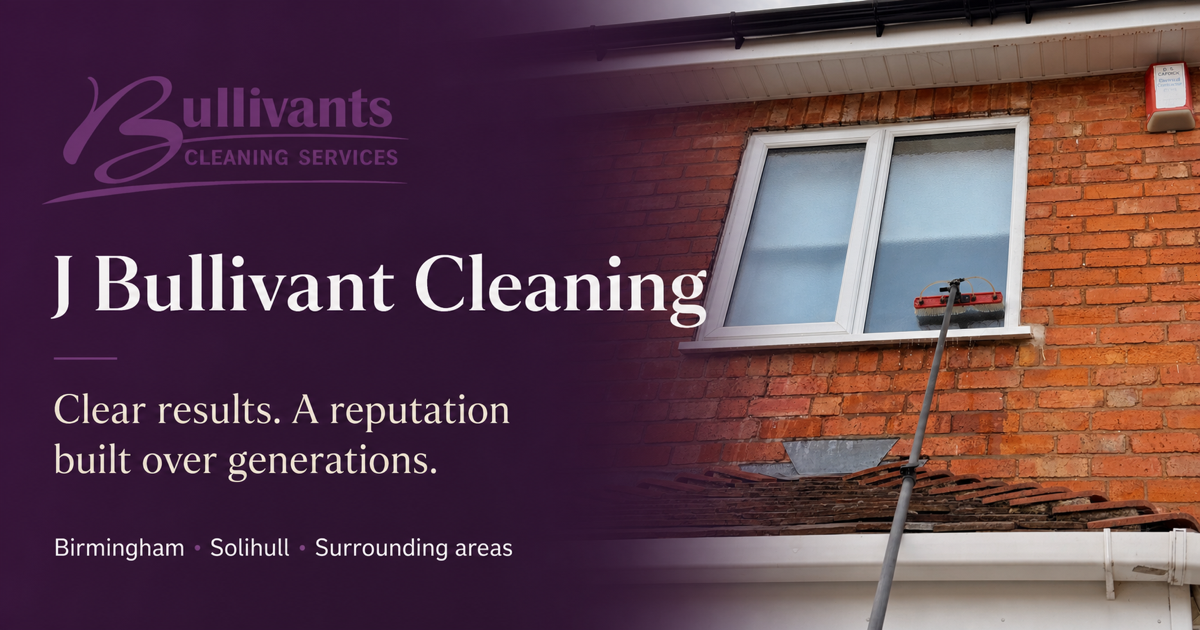
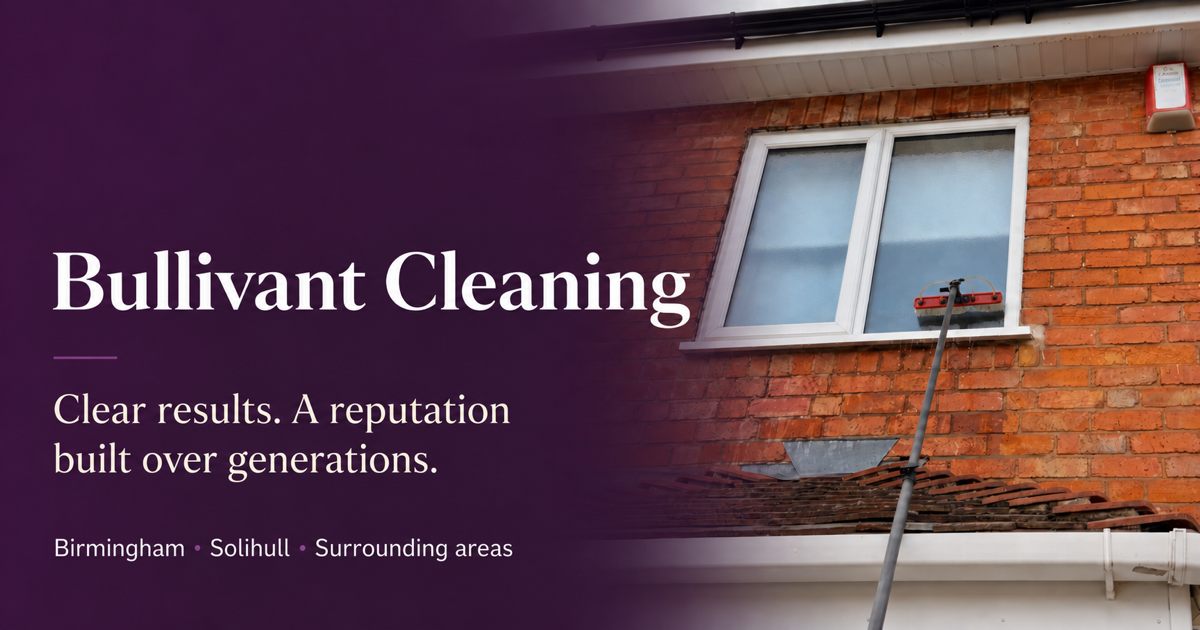
Update Bullivant Cleaning brand and local SEO

diff --git a/app/page.tsx b/app/page.tsx
@@ -8,8 +8,8 @@ export default function HomePage() {
         <div className="hero-shade" />
         <div className="hero-content">
           <p className="eyebrow light">Established family-run cleaning specialists</p>
-          <h1>Clear results.<br />A reputation built<br />over generations.</h1>
-          <p className="hero-copy">Professional residential and commercial window cleaning across Birmingham, Solihull and surrounding areas.</p>
+          <h1>Professional window cleaning<br />in Birmingham.</h1>
+          <p className="hero-copy">Bullivant Cleaning provides residential and commercial window cleaning, plus gutter, soffit and internal window cleaning, across Birmingham and surrounding areas.</p>
           <div className="hero-actions">
             <a className="button" href="/quote">Get a Free Quote <span aria-hidden="true">→</span></a>
             <a className="text-link light" href="tel:07855399330">Call 07855 399330</a>
@@ -27,13 +27,13 @@ export default function HomePage() {
 
       <section className="intro-section editorial-grid reveal">
         <div>
-          <p className="eyebrow">Birmingham’s trusted cleaning specialists</p>
+          <p className="eyebrow">Local window cleaners in Birmingham</p>
           <h2>Clean windows.<br />Clear standards.</h2>
         </div>
         <div className="intro-body">
-          <p className="lead">J Bullivant Cleaning combines decades of practical expertise with modern equipment and a personal, reliable service.</p>
-          <p>From regular residential rounds to commercial properties, every clean is approached with care. Frames and sills are included as standard, leaving the whole window looking its best.</p>
-          <a className="arrow-link" href="/about">Meet J Bullivant Cleaning <span>→</span></a>
+          <p className="lead">Bullivant Cleaning combines decades of practical expertise with modern equipment and a personal, reliable service.</p>
+          <p>From regular residential window cleaning to commercial properties, every clean is approached with care. Frames and sills are included as standard, leaving the whole window looking its best.</p>
+          <a className="arrow-link" href="/about">Meet Bullivant Cleaning <span>→</span></a>
         </div>
       </section>
 
@@ -44,7 +44,7 @@ export default function HomePage() {
           <div className="service-feature-copy"><span>01 / Residential</span><h2>Regular care for a home that feels brighter.</h2><b>Explore residential services →</b></div>
         </a>
         <a className="service-feature commercial reveal" href="/commercial-cleaning">
-          <img src="/images/window-cleaning-van-equipment.jpg" alt="J Bullivant professional cleaning van and equipment" loading="lazy" />
+          <img src="/images/window-cleaning-van-equipment.jpg" alt="Commercial window cleaning equipment used by Bullivant Cleaning" loading="lazy" />
           <div className="image-overlay" />
           <div className="service-feature-copy"><span>02 / Commercial</span><h2>Reliable standards for every working environment.</h2><b>Explore commercial services →</b></div>
         </a>
@@ -75,7 +75,7 @@ export default function HomePage() {
 
       <section className="why-section editorial-grid reveal">
         <div>
-          <p className="eyebrow">Why J Bullivant</p>
+          <p className="eyebrow">Why Bullivant Cleaning</p>
           <h2>Dependable by habit. Detailed by nature.</h2>
         </div>
         <div className="why-list">

diff --git a/app/globals.css b/app/globals.css
@@ -75,6 +75,7 @@ p { color: var(--muted); font-size: 16px; line-height: 1.75; }
 .arrow-link { align-items: center; border-bottom: 1px solid var(--line); display: flex; font-size: 13px; font-weight: 800; justify-content: space-between; margin-top: 35px; max-width: 300px; padding: 0 0 13px; transition: .2s ease; }
 .arrow-link:hover { border-color: var(--plum); color: var(--plum); max-width: 315px; }
 .arrow-link.light { border-color: rgba(255, 255, 255, .3); color: white; }
+.inline-link { color: var(--plum); font-weight: 700; text-decoration: underline; text-decoration-thickness: 1px; text-underline-offset: 3px; }
 .text-link { border-bottom: 1px solid var(--line); font-size: 13px; font-weight: 800; padding: 10px 0; }
 .text-link.light { border-color: rgba(255, 255, 255, .45); color: white; }
 .editorial-grid { display: grid; gap: clamp(45px, 9vw, 150px); grid-template-columns: minmax(0, .95fr) minmax(0, 1.05fr); }
@@ -140,9 +141,9 @@ p { color: var(--muted); font-size: 16px; line-height: 1.75; }
 .why-list h3 { font-family: var(--serif); font-size: 24px; font-weight: 400; margin: 0 0 10px; }
 .why-list p { font-size: 14px; margin-bottom: 0; }
 
-.history-section { min-height: 850px; overflow: hidden; position: relative; }
+.history-section { display: grid; min-height: 850px; overflow: clip; position: relative; }
 .history-section > img { height: 100%; inset: 0; object-fit: cover; position: absolute; width: 100%; }
-.history-card { background: rgba(78, 25, 80, .95); color: white; margin-left: clamp(24px, 8vw, 125px); max-width: 670px; padding: clamp(48px, 7vw, 94px); position: absolute; top: 50%; transform: translateY(-50%); }
+.history-card { align-self: center; background: rgba(78, 25, 80, .95); color: white; margin: clamp(72px, 9vw, 125px) 24px clamp(72px, 9vw, 125px) clamp(24px, 8vw, 125px); max-width: 670px; padding: clamp(48px, 7vw, 94px); position: relative; z-index: 1; }
 .history-card h2 { font-size: clamp(48px, 5vw, 74px); }
 .history-card p:not(.eyebrow) { color: rgba(255,255,255,.72); }
 
@@ -186,7 +187,7 @@ p { color: var(--muted); font-size: 16px; line-height: 1.75; }
 .feature-row article:first-child { padding-left: 0; }
 .feature-row article:last-child { border: 0; }
 .feature-row article > span { color: var(--plum); font-size: 10px; font-weight: 800; }
-.feature-row h3 { font-family: var(--serif); font-size: 26px; font-weight: 400; margin: 20px 0 10px; }
+.feature-row h2 { font-family: var(--serif); font-size: 26px; font-weight: 400; letter-spacing: normal; line-height: 1.2; margin: 20px 0 10px; }
 .feature-row p { font-size: 13px; margin: 0; }
 .service-detail { padding: clamp(100px, 12vw, 180px) clamp(24px, 8vw, 125px); }
 .service-detail h2 { margin: 0; }
@@ -385,8 +386,8 @@ input:focus, select:focus, textarea:focus { border-color: var(--plum); outline: 
   .before-after-heading h2 { text-align: left; }
   .before-after-grid { grid-template-columns: 1fr; }
   .before-after-grid img { height: 520px; }
-  .history-section { min-height: 780px; }
-  .history-card { left: 0; margin: 0 18px; padding: 46px 28px; right: 0; }
+  .history-section { min-height: auto; }
+  .history-card { margin: 72px 18px; padding: 46px 28px; }
   .area-tags span { padding: 9px 12px; }
   .commercial-band > img { min-height: 500px; }
   .quote-band { padding-bottom: 80px; padding-top: 80px; }

diff --git a/app/layout.tsx b/app/layout.tsx
@@ -1,32 +1,30 @@
 import type { Metadata } from "next";
-import { headers } from "next/headers";
 import "./globals.css";
 import { Footer, Header, MobileActions } from "./components/SiteChrome";
+import { BUSINESS_NAME, SITE_URL, createPageMetadata } from "./lib/seo";
 
-export async function generateMetadata(): Promise<Metadata> {
-  const requestHeaders = await headers();
-  const host = requestHeaders.get("host") || "j-bullivant-cleaning.sites.openai.com";
-  const protocol = requestHeaders.get("x-forwarded-proto") || "https";
-  const base = new URL(`${protocol}://${host}`);
-  const title = "J Bullivant Cleaning | Window Cleaning Birmingham & Solihull";
-  const description = "Family-run residential and commercial window cleaning across Birmingham, Solihull and surrounding areas.";
-  const socialImage = new URL("/og.png", base).toString();
-  return {
-    metadataBase: base,
-    title: { default: title, template: "%s | J Bullivant Cleaning" },
-    description,
-    icons: { icon: "/images/j-bullivant-logo.png" },
-    openGraph: { title, description, images: [{ url: socialImage, width: 1200, height: 630, alt: "J Bullivant Cleaning—clear results built over generations" }], type: "website" },
-    twitter: { card: "summary_large_image", title, description, images: [socialImage] },
-  };
-}
+const homeTitle = "Bullivant Cleaning | Window Cleaners in Birmingham";
+const homeDescription = "Established window cleaners in Birmingham providing professional residential, commercial, gutter, soffit and internal window cleaning across the surrounding areas.";
+
+export const metadata: Metadata = {
+  metadataBase: SITE_URL,
+  ...createPageMetadata({ title: homeTitle, description: homeDescription, path: "/" }),
+  applicationName: BUSINESS_NAME,
+  title: { default: homeTitle, template: `%s | ${BUSINESS_NAME}` },
+  manifest: "/manifest.webmanifest",
+  icons: { icon: "/favicon.svg", shortcut: "/favicon.svg", apple: "/favicon.svg" },
+  robots: { index: true, follow: true },
+};
 
 const localBusiness = {
   "@context": "https://schema.org",
-  "@type": "LocalBusiness",
-  name: "J Bullivant Cleaning",
+  "@type": ["LocalBusiness", "ProfessionalService"],
+  "@id": "https://bullivantcleaning.com/#business",
+  name: "Bullivant Cleaning",
+  url: "https://bullivantcleaning.com",
   telephone: "+44 7855 399330",
   email: "Bulldotcom@blueyonder.co.uk",
+  image: "https://bullivantcleaning.com/og.png",
   address: {
     "@type": "PostalAddress",
     streetAddress: "24 Linden Road",
@@ -35,8 +33,8 @@ const localBusiness = {
     addressCountry: "GB",
   },
   areaServed: ["Birmingham", "Solihull", "Shirley", "Knowle", "Dickens Heath", "Harborne", "Edgbaston", "Bromsgrove"],
-  openingHours: ["Mo-Fr window cleaning", "Mo-Su phone and email enquiries"],
-  description: "Family-run residential and commercial window cleaning with more than 40 years of hands-on professional experience.",
+  serviceType: ["Window cleaning", "Commercial window cleaning", "Internal window cleaning", "Gutter cleaning", "Soffit cleaning"],
+  description: "Established window cleaners providing residential, commercial, internal, gutter and soffit cleaning across Birmingham and surrounding areas.",
 };
 
 export default function RootLayout({ children }: Readonly<{ children: React.ReactNode }>) {

diff --git a/app/about/page.tsx b/app/about/page.tsx
@@ -1,14 +1,15 @@
 import type { Metadata } from "next";
 import { QuoteBand } from "../components/SiteChrome";
+import { createPageMetadata } from "../lib/seo";
 
-export const metadata: Metadata = { title: "About John Bullivant", description: "Discover the family tradition and more than 40 years of hands-on experience behind J Bullivant Cleaning." };
+export const metadata: Metadata = createPageMetadata({ title: "About Bullivant Cleaning | Birmingham Window Cleaners", description: "Meet John and discover the family tradition and more than 40 years of hands-on experience behind Bullivant Cleaning in Birmingham.", path: "/about" });
 
 export default function AboutPage() {
   return (
     <main>
       <section className="about-hero">
-        <div className="about-hero-copy"><p className="eyebrow light">The story behind the standard</p><h1>A family name built on dependable work.</h1><p>J Bullivant Cleaning is led by John Bullivant, bringing more than four decades of hands-on professional experience to every regular round and commercial relationship.</p></div>
-        <img src="/images/professional-pure-water-system.jpg" alt="J Bullivant Cleaning's professional van-mounted equipment" />
+        <div className="about-hero-copy"><p className="eyebrow light">The story behind the standard</p><h1>About Bullivant Cleaning.</h1><p>Bullivant Cleaning is led by John, bringing more than four decades of hands-on professional experience to every regular round and commercial relationship.</p></div>
+        <img src="/images/professional-pure-water-system.jpg" alt="Bullivant Cleaning professional van-mounted pure-water equipment" />
       </section>
 
       <section className="story-section editorial-grid reveal">
@@ -21,7 +22,7 @@ export default function AboutPage() {
         <div className="values-copy"><p className="eyebrow light">What matters</p><h2>Personal service. Professional equipment. No fuss.</h2><div className="values-list"><p><b>Fully insured</b><span>Professional reassurance for every property.</span></p><p><b>Family-run</b><span>Direct, accountable service from a local business.</span></p><p><b>Modern &amp; traditional</b><span>The right cleaning method chosen for the job.</span></p><p><b>Regular customers</b><span>Dependable schedules and lasting relationships.</span></p></div></div>
       </section>
 
-      <section className="signature-section reveal"><span>“</span><blockquote>Good service is simple: arrive reliably, work carefully, and leave the whole window looking right.</blockquote><p>John Bullivant</p><a className="arrow-link" href="/quote">Start a conversation <b>→</b></a></section>
+      <section className="signature-section reveal"><span>“</span><blockquote>Good service is simple: arrive reliably, work carefully, and leave the whole window looking right.</blockquote><p>John</p><a className="arrow-link" href="/quote">Start a conversation <b>→</b></a></section>
       <QuoteBand eyebrow="Work with an established local cleaner" title="Decades of experience. One straightforward quote." />
     </main>
   );

diff --git a/app/areas-we-cover/page.tsx b/app/areas-we-cover/page.tsx
@@ -1,10 +1,11 @@
 import type { Metadata } from "next";
 import { QuoteBand } from "../components/SiteChrome";
+import { createPageMetadata } from "../lib/seo";
 
-export const metadata: Metadata = { title: "Areas We Cover | Birmingham, Solihull & Nearby", description: "Window cleaning across Birmingham, Solihull, Shirley, Knowle, Dickens Heath, Harborne, Edgbaston, Bromsgrove and surrounding areas." };
+export const metadata: Metadata = createPageMetadata({ title: "Window Cleaning Across Birmingham & Surrounding Areas | Bullivant Cleaning", description: "Local window cleaning across Birmingham, Solihull, Shirley, Knowle, Dickens Heath, Harborne, Edgbaston, Bromsgrove and nearby areas.", path: "/areas-we-cover" });
 
 const areas = [
-  ["Birmingham", "Regular residential and commercial window cleaning across the city and south Birmingham."],
+  ["Birmingham", "Regular residential and commercial window cleaning across the city and south Birmingham, including high-reach work where suitable."],
   ["Solihull", "Window, gutter, soffit and commercial services, including broader internal commercial cleaning."],
   ["Shirley", "Regular window cleaning plus broader commercial internal cleaning enquiries."],
   ["Knowle", "Professional regular residential and commercial window care."],
@@ -31,7 +32,7 @@ export default function AreasPage() {
 
       <section className="postcode-section editorial-grid reveal">
         <div><p className="eyebrow">Not sure if we cover you?</p><h2>Send the postcode. We’ll take it from there.</h2></div>
-        <div><p>Routes evolve around our regular customers, so nearby locations may often be possible. Add your postcode and preferred service to the quote form, or call John directly for a quick conversation.</p><div className="postcode-actions"><a className="button" href="/quote">Get a Free Quote</a><a className="text-link" href="tel:07855399330">07855 399330</a></div></div>
+        <div><p>Routes evolve around our regular customers, so nearby locations may often be possible. Explore our <a className="inline-link" href="/window-cleaning">residential window cleaning</a>, <a className="inline-link" href="/gutter-soffit-cleaning">gutter and soffit cleaning</a> and <a className="inline-link" href="/commercial-cleaning">commercial window cleaning</a>, then add your postcode and preferred service to the quote form.</p><div className="postcode-actions"><a className="button" href="/quote">Get a Free Quote</a><a className="text-link" href="tel:07855399330">07855 399330</a></div></div>
       </section>
       <QuoteBand />
     </main>

diff --git a/app/quote/page.tsx b/app/quote/page.tsx
@@ -1,14 +1,15 @@
 import type { Metadata } from "next";
 import { QuoteForm } from "./QuoteForm";
 import { PHONE_DISPLAY, PHONE_HREF } from "../lib/contact";
+import { createPageMetadata } from "../lib/seo";
 
-export const metadata: Metadata = { title: "Get a Free Cleaning Quote", description: "Request a free quote from J Bullivant Cleaning for regular window, gutter, soffit or commercial cleaning." };
+export const metadata: Metadata = createPageMetadata({ title: "Free Window Cleaning Quote Birmingham | Bullivant Cleaning", description: "Request a free quote from Bullivant Cleaning for residential, commercial, internal, gutter or soffit cleaning across Birmingham and surrounding areas.", path: "/quote" });
 
 export default function QuotePage() {
   return (
     <main className="quote-page">
       <section className="quote-hero">
-        <div><p className="eyebrow light">Free, straightforward quote</p><h1>Tell us about your property.</h1><p>Complete the details below and we’ll prepare an email in your own email app, ready for you to review and send to John.</p><div className="quote-contact-card"><span>Prefer to talk?</span><a href={PHONE_HREF}>{PHONE_DISPLAY}</a><small>Phone &amp; email enquiries welcomed 7 days a week</small></div></div>
+        <div><p className="eyebrow light">Free, straightforward quote</p><h1>Get a free cleaning quote.</h1><p>Tell Bullivant Cleaning about your property and we’ll prepare an email in your own email app, ready for you to review and send to John.</p><div className="quote-contact-card"><span>Prefer to talk?</span><a href={PHONE_HREF}>{PHONE_DISPLAY}</a><small>Phone &amp; email enquiries welcomed 7 days a week</small></div></div>
         <img src="/images/traditional-window-cleaning-kit.jpg" alt="Professional traditional window cleaning kit" />
       </section>
       <section className="quote-form-wrap"><div className="quote-form-intro"><p className="eyebrow">Your enquiry</p><h2>A few useful details. No unnecessary questions.</h2><p>For window cleaning, we provide regular services rather than one-off cleans. Choose the schedule that best suits you, or ask us to advise.</p></div><QuoteForm /></section>

diff --git a/app/commercial-cleaning/page.tsx b/app/commercial-cleaning/page.tsx
@@ -1,10 +1,11 @@
 import type { Metadata } from "next";
 import { ServicePage } from "../components/ServicePage";
+import { createPageMetadata } from "../lib/seo";
 
-export const metadata: Metadata = { title: "Commercial Window Cleaning Birmingham & Solihull", description: "Commercial window and internal cleaning for offices, shops, apartment blocks and care homes in Birmingham and Solihull." };
+export const metadata: Metadata = createPageMetadata({ title: "Commercial Window Cleaning Birmingham | Bullivant Cleaning", description: "Reliable commercial window cleaning in Birmingham and Solihull for offices, shops, apartment blocks, care homes and other suitable properties.", path: "/commercial-cleaning" });
 
 export default function CommercialPage() {
-  return <ServicePage eyebrow="Commercial cleaning" title="Professional standards, reliably maintained." intro="Regular commercial window cleaning and carefully managed internal cleaning for workplaces and shared buildings across Birmingham, Solihull and surrounding areas." image="/images/window-cleaning-van-equipment.jpg" imageAlt="Van-mounted system and professional equipment for commercial window cleaning" highlights={[
+  return <ServicePage eyebrow="Commercial cleaning" title="Commercial window cleaning in Birmingham." intro="Regular commercial window cleaning and carefully managed internal cleaning for workplaces and shared buildings across Birmingham, Solihull and surrounding areas." image="/images/window-cleaning-van-equipment.jpg" imageAlt="Commercial window cleaning by Bullivant Cleaning in Birmingham" highlights={[
     { title: "Reliable regular service", text: "Planned cleaning to help your property present consistently well." },
     { title: "Inside and out", text: "External and internal commercial window cleaning available." },
     { title: "Suitable for varied premises", text: "Experience across workplaces, retail, residential blocks and care settings." },

diff --git a/app/window-cleaning/page.tsx b/app/window-cleaning/page.tsx
@@ -1,10 +1,11 @@
 import type { Metadata } from "next";
 import { ServicePage } from "../components/ServicePage";
+import { createPageMetadata } from "../lib/seo";
 
-export const metadata: Metadata = { title: "Window Cleaning Birmingham & Solihull", description: "Regular residential and commercial window cleaning in Birmingham, Solihull, Shirley, Knowle and surrounding areas." };
+export const metadata: Metadata = createPageMetadata({ title: "Window Cleaning Birmingham | Bullivant Cleaning", description: "Professional residential window cleaning in Birmingham using reach-and-wash and traditional methods, with regular rounds across Solihull, Shirley, Knowle and nearby areas.", path: "/window-cleaning" });
 
 export default function WindowCleaningPage() {
-  return <ServicePage eyebrow="Residential & commercial" title="Window cleaning, done properly." intro="Reliable regular window cleaning with the reach, equipment and experience to care for the whole window—not only the glass." image="/images/reach-and-wash-window-cleaning.jpg" imageAlt="Reach-and-wash cleaning of an upper-floor residential window" highlights={[
+  return <ServicePage eyebrow="Residential & commercial" title="Professional window cleaning in Birmingham." intro="Reliable regular window cleaning across Birmingham, Solihull and surrounding areas, with the reach, equipment and experience to care for the whole window—not only the glass." image="/images/reach-and-wash-window-cleaning.jpg" imageAlt="Professional window cleaner using a water-fed pole in Birmingham" highlights={[
     { title: "Regular residential rounds", text: "Dependable 4, 6, 8-week or another regular schedule to suit your home." },
     { title: "Frames & sills included", text: "We clean the whole window as standard for a noticeably better finish." },
     { title: "Internal or external", text: "Exterior cleaning plus careful internal window cleaning where requested." },

diff --git a/app/internal-cleaning/page.tsx b/app/internal-cleaning/page.tsx
@@ -1,10 +1,11 @@
 import type { Metadata } from "next";
 import { ServicePage } from "../components/ServicePage";
+import { createPageMetadata } from "../lib/seo";
 
-export const metadata: Metadata = { title: "Internal Window Cleaning Birmingham", description: "Professional internal window cleaning for homes and commercial properties across Birmingham and Solihull." };
+export const metadata: Metadata = createPageMetadata({ title: "Internal Window Cleaning Birmingham | Bullivant Cleaning", description: "Careful internal window cleaning for homes, offices, shops and suitable commercial properties across Birmingham and Solihull.", path: "/internal-cleaning" });
 
 export default function InternalPage() {
-  return <ServicePage eyebrow="Inside the property" title="A detailed finish, inside and out." intro="Professional internal window cleaning for residential and commercial properties, completed with care around your rooms, furnishings and working environment." image="/images/squeegee-and-applicator.jpg" imageAlt="Professional squeegee and applicator for detailed internal window cleaning" highlights={[
+  return <ServicePage eyebrow="Inside the property" title="Internal window cleaning in Birmingham." intro="Professional internal window cleaning for residential and commercial properties across Birmingham and Solihull, completed with care around your rooms, furnishings and working environment." image="/images/squeegee-and-applicator.jpg" imageAlt="Professional internal window cleaning with a squeegee and applicator" highlights={[
     { title: "Residential interiors", text: "Careful internal cleaning for homes, flats and apartments." },
     { title: "Commercial interiors", text: "Window cleaning for offices, shops, care homes and suitable workplaces." },
     { title: "Hands-on detail", text: "Professional applicator, squeegee and scraper methods where appropriate." },

diff --git a/app/gutter-soffit-cleaning/page.tsx b/app/gutter-soffit-cleaning/page.tsx
@@ -1,10 +1,11 @@
 import type { Metadata } from "next";
 import { ServicePage } from "../components/ServicePage";
+import { createPageMetadata } from "../lib/seo";
 
-export const metadata: Metadata = { title: "Gutter & Soffit Cleaning Birmingham & Solihull", description: "Professional gutter and soffit cleaning across Birmingham, Solihull and surrounding areas." };
+export const metadata: Metadata = createPageMetadata({ title: "Gutter & Soffit Cleaning Birmingham | Bullivant Cleaning", description: "Professional gutter and soffit cleaning for homes and suitable commercial properties across Birmingham, Solihull and surrounding areas.", path: "/gutter-soffit-cleaning" });
 
 export default function GutterPage() {
-  return <ServicePage eyebrow="Exterior care" title="Gutters and soffits, carefully refreshed." intro="A considered exterior clean that lifts weathering and built-up dirt from the details that frame your property." image="/images/clean-residential-windows.jpg" imageAlt="Clean soffits, guttering and window frames on a brick home" highlights={[
+  return <ServicePage eyebrow="Exterior care" title="Gutter and soffit cleaning in Birmingham." intro="A considered exterior cleaning service across Birmingham and surrounding areas that lifts weathering and built-up dirt from the details that frame your property." image="/images/clean-residential-windows.jpg" imageAlt="Gutter and soffit cleaning service at a Birmingham home" highlights={[
     { title: "Residential properties", text: "Careful gutter and soffit cleaning for houses, bungalows, flats and apartments." },
     { title: "Commercial premises", text: "A professional service for suitable commercial buildings and managed properties." },
     { title: "Experienced at height", text: "Appropriate equipment and more than 40 years of practical cleaning experience." },

diff --git a/app/components/SiteChrome.tsx b/app/components/SiteChrome.tsx
@@ -11,8 +11,8 @@ const services = [
 export function Header() {
   return (
     <header className="site-header">
-      <Link className="brand" href="/" aria-label="J Bullivant Cleaning home">
-        <img src="/images/j-bullivant-logo.png" alt="J Bullivant Cleaning Services" />
+      <Link className="brand" href="/" aria-label="Bullivant Cleaning home">
+        <img src="/images/bullivant-cleaning-logo.svg" alt="Bullivant Cleaning" />
       </Link>
       <nav className="desktop-nav" aria-label="Main navigation">
         <Link href="/">Home</Link>
@@ -49,7 +49,7 @@ export function Footer() {
     <footer className="footer">
       <div className="footer-top">
         <div className="footer-brand">
-          <img src="/images/j-bullivant-logo.png" alt="J Bullivant Cleaning Services" />
+          <img src="/images/bullivant-cleaning-logo.svg" alt="Bullivant Cleaning" />
           <p>Professional residential and commercial cleaning, built on a family tradition spanning more than 80 years.</p>
           <a className="button" href="/quote">Get a Free Quote <span aria-hidden="true">→</span></a>
         </div>
@@ -74,7 +74,7 @@ export function Footer() {
       <div className="footer-bottom">
         <p>Window cleaning Monday–Friday · Phone &amp; email enquiries 7 days a week</p>
         <p>Serving Birmingham, Solihull &amp; surrounding areas</p>
-        <p>© 2026 J Bullivant Cleaning</p>
+        <p>© 2026 Bullivant Cleaning</p>
         <a className="backup-email" href={BACKUP_EMAIL_HREF}>Backup: {BACKUP_EMAIL}</a>
       </div>
     </footer>

diff --git a/app/lib/seo.ts b/app/lib/seo.ts
@@ -1,0 +1,42 @@
+import type { Metadata } from "next";
+
+export const BUSINESS_NAME = "Bullivant Cleaning";
+export const SITE_URL = new URL("https://bullivantcleaning.com");
+export const SOCIAL_IMAGE_PATH = "/og.png";
+
+type PageMetadataOptions = {
+  title: string;
+  description: string;
+  path: string;
+};
+
+export function createPageMetadata({ title, description, path }: PageMetadataOptions): Metadata {
+  const canonical = new URL(path, SITE_URL).toString();
+  const socialImage = new URL(SOCIAL_IMAGE_PATH, SITE_URL).toString();
+
+  return {
+    title: { absolute: title },
+    description,
+    alternates: { canonical },
+    openGraph: {
+      title,
+      description,
+      url: canonical,
+      siteName: BUSINESS_NAME,
+      locale: "en_GB",
+      type: "website",
+      images: [{
+        url: socialImage,
+        width: 1200,
+        height: 630,
+        alt: `${BUSINESS_NAME} professional window cleaning in Birmingham`,
+      }],
+    },
+    twitter: {
+      card: "summary_large_image",
+      title,
+      description,
+      images: [socialImage],
+    },
+  };
+}
